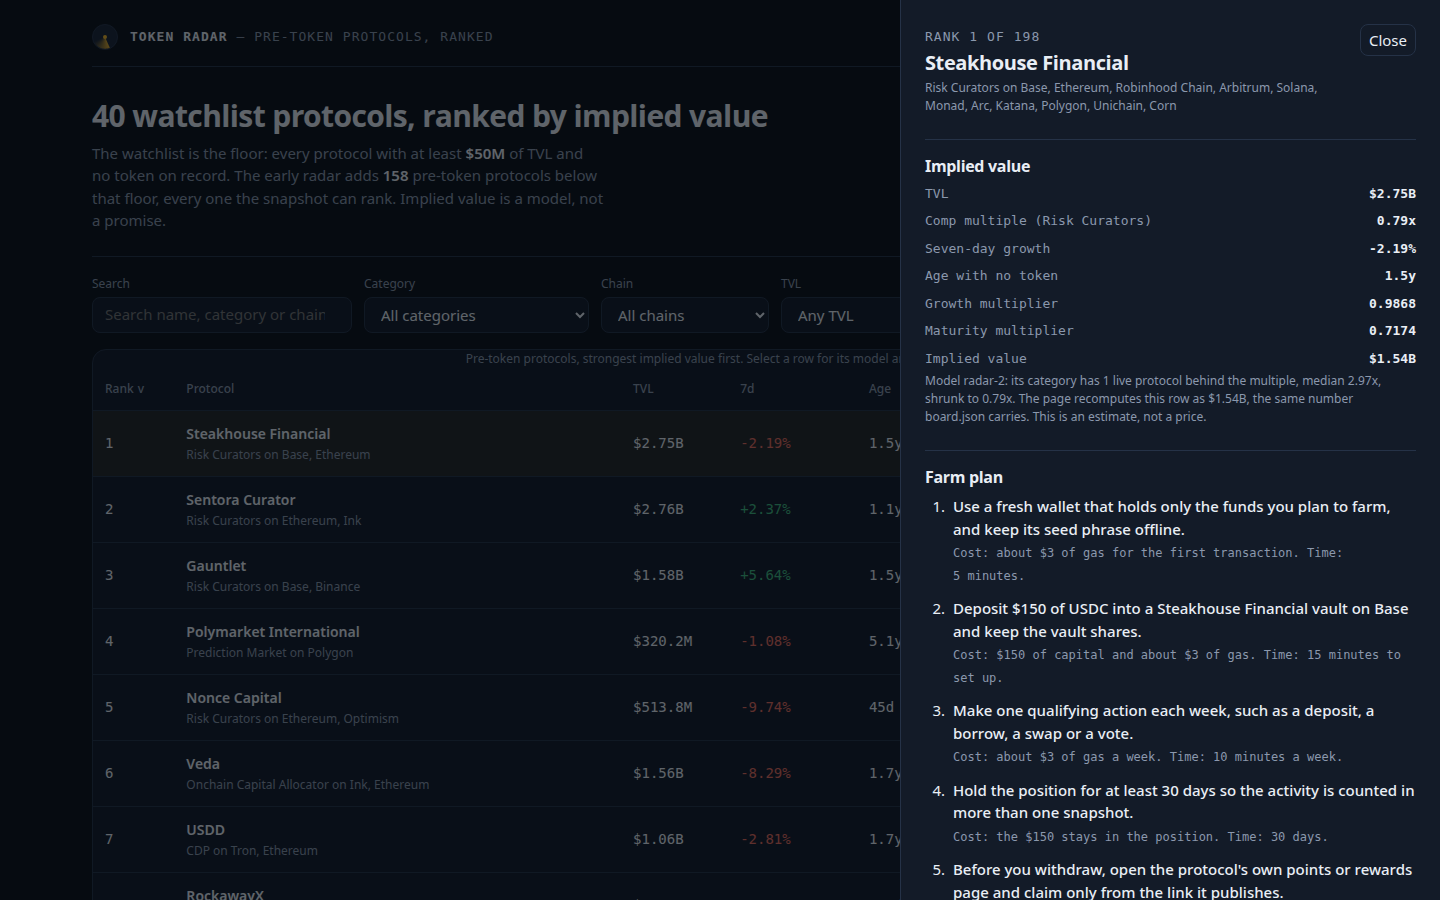
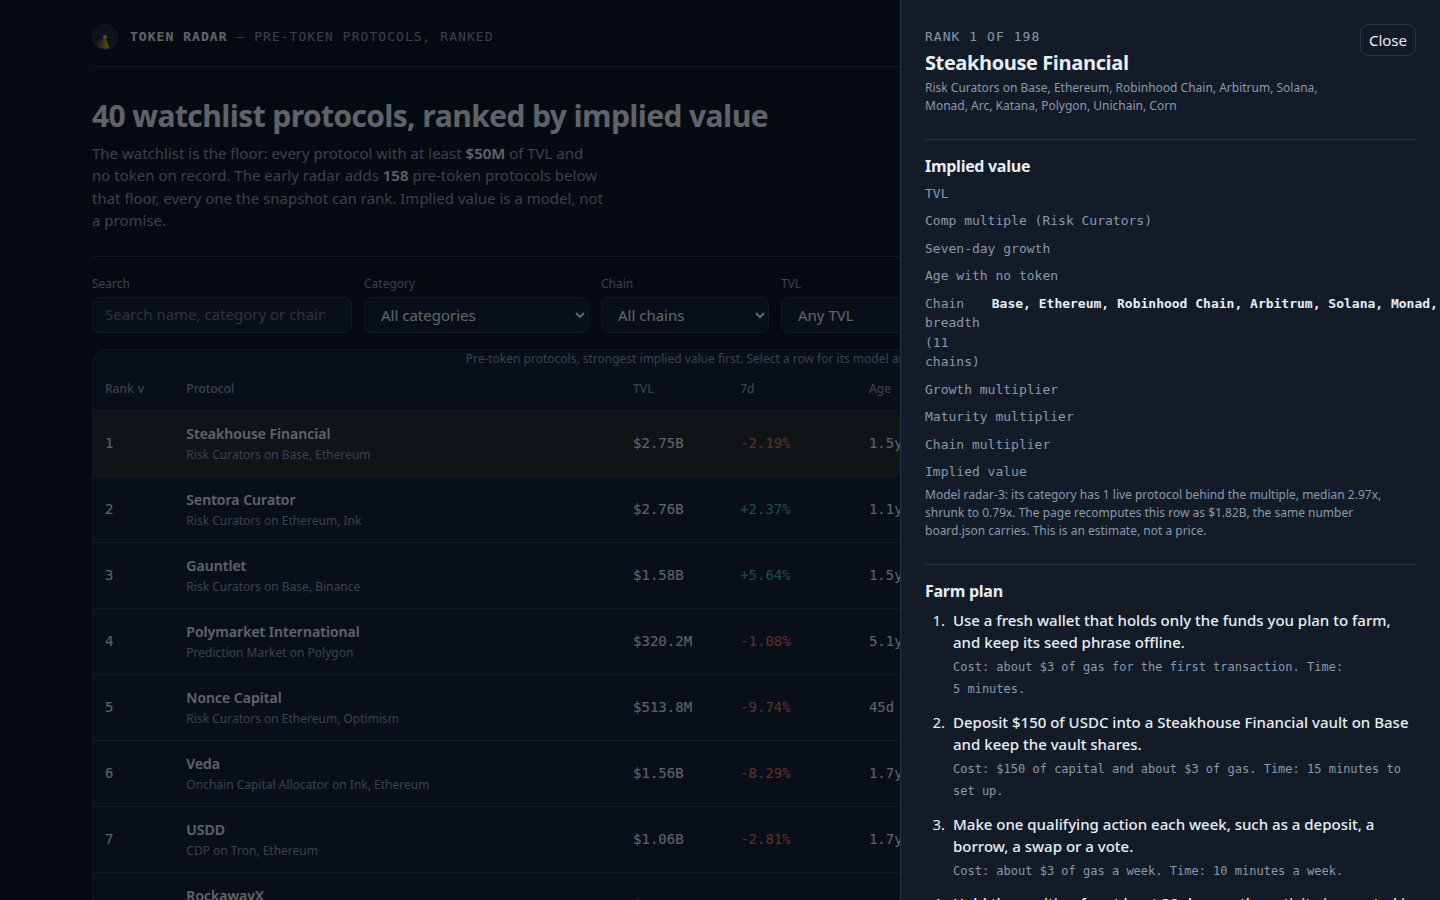
radar-3: chain-breadth model factor; SPDX identifier in LICENSE
- Model: fourth factor from the snapshot's chains list, ignored until now.
  Each chain past the first adds 0.02, capped at nine extra chains
  (1.00x single-chain to 1.18x at ten chains or more), so breadth is a
  tie-breaker, never the story. Dashboard recomputes the same arithmetic
  and shows the chain list and multiplier in the detail view.
- LICENSE: add SPDX-License-Identifier: MIT (fixes license_osi).
- Screenshots re-taken against the new output; gate 7/7 and determinism
  re-verified (two runs byte-identical, dossier rebuild byte-identical).

Changed region(s): [[0.625, 0.3111, 1.0, 1.0], [0.9688, 0.2178, 1.0, 0.28]]

diff --git a/lib/model.ts b/lib/model.ts
@@ -9,7 +9,7 @@
 // staked or bridged product of a token that already trades is not ranked either:
 // WBTC is Bitcoin on Ethereum, not a protocol waiting on a launch of its own.
 //
-// Implied value is derived from the snapshot's own figures only, in three parts:
+// Implied value is derived from the snapshot's own figures only, in four parts:
 //
 //   1. Comps. The snapshot's live-token protocols are the market's own evidence for
 //      what a token is worth per dollar of TVL. For each category we take the median
@@ -27,7 +27,17 @@
 //      issuing one, the more pent-up the launch. maturity = 0.55 +
 //      min(age_days, 1460) / 1460 x 0.45. An unlisted age counts as 365 days.
 //
-//   implied = max(1, round(base x growth_mult x maturity))
+//   4. Chain breadth. The snapshot's `chains` list is a figure the first three
+//      parts never read, and it is real evidence: a protocol live on more chains
+//      reaches more wallets, more integrations and more surface to farm, so its
+//      launch has more to price. Each chain past the first adds 0.02, up to nine
+//      extra chains: chain_mult = 1 + min(chains - 1, 9) x 0.02, so a single-chain
+//      protocol scores 1.00 and one on ten chains or more scores 1.18. The cap
+//      keeps breadth a tie-breaker, never the story: the widest protocol in this
+//      snapshot lists 45 chains, and without the cap it would outrank on
+//      distribution alone.
+//
+//   implied = max(1, round(base x growth_mult x maturity x chain_mult))
 //
 // No protocol name is ever special-cased: the same function scores every row, and
 // re-running on a newer snapshot re-ranks from the new figures, so the radar finds
@@ -69,6 +79,10 @@ export interface ModelConstants {
   maturity_range: number;
   maturity_days: number;
   unknown_age_days: number;
+  /** Uplift per chain past the first, in chain breadth. */
+  chain_step: number;
+  /** How many extra chains past the first the breadth uplift counts. */
+  chain_extra_max: number;
 }
 
 export const MODEL: ModelConstants = {
@@ -82,10 +96,12 @@ export const MODEL: ModelConstants = {
   maturity_range: 0.45,
   maturity_days: 1460,
   unknown_age_days: 365,
+  chain_step: 0.02,
+  chain_extra_max: 9,
 };
 
 /** The model's version label: the dashboard names it. */
-export const MODEL_VERSION = 'radar-2';
+export const MODEL_VERSION = 'radar-3';
 
 /** How many live-token protocols the dashboard's Live token view carries, by market cap. */
 export const LIVE_ROWS = 24;
@@ -127,6 +143,8 @@ export interface BoardRow {
     growth_pct: number;
     growth_multiplier: number;
     maturity_multiplier: number;
+    chain_multiplier: number;
+    chain_count: number;
     age_days: number | null;
   };
   farm_steps: string[];
@@ -148,6 +166,8 @@ export interface RadarRow {
   comp_multiple: number;
   growth_multiplier: number;
   maturity_multiplier: number;
+  chain_multiplier: number;
+  chain_count: number;
 }
 
 /** A live-token protocol: it already trades, so the board shows the market's own value. */
@@ -245,13 +265,26 @@ export function categoryComps(snapshot: Snapshot, model: ModelConstants = MODEL)
   return { comps, global };
 }
 
-/** The three multipliers and the implied value one protocol gets under `model`. */
+/**
+ * Chain breadth: how much a protocol's chain count lifts its implied value.
+ * One chain scores 1.00; each chain past the first adds `model.chain_step`,
+ * up to `model.chain_extra_max` extra chains, so the widest protocols top out
+ * at 1 + 9 x 0.02 = 1.18. The cap is the point: breadth is distribution, not
+ * size, and a protocol on 45 chains must not outrank a bigger one on breadth
+ * alone. A missing or empty chain list counts as one chain.
+ */
+export function chainMultiplier(chainCount: number, model: ModelConstants = MODEL): number {
+  const extra = Math.min(Math.max(Math.floor(chainCount) - 1, 0), model.chain_extra_max);
+  return 1 + extra * model.chain_step;
+}
+
+/** The four multipliers and the implied value one protocol gets under `model`. */
 export function impliedValue(
   protocol: SnapshotProtocol,
   asOf: string,
   multiple: number,
   model: ModelConstants,
-): { implied: number; growthPct: number; growthMult: number; maturityMult: number; age: number | null } {
+): { implied: number; growthPct: number; growthMult: number; maturityMult: number; chainMult: number; chainCount: number; age: number | null } {
   const age = ageDays(asOf, protocol.listed_at);
   const rawGrowth = finite(protocol.change_7d, 0);
   const growthPct = Math.min(model.growth_cap, Math.max(model.growth_floor, rawGrowth));
@@ -259,9 +292,11 @@ export function impliedValue(
   const ageForModel = age ?? model.unknown_age_days;
   const maturityMult =
     model.maturity_floor + (Math.min(Math.max(ageForModel, 0), model.maturity_days) / model.maturity_days) * model.maturity_range;
+  const chainCount = Array.isArray(protocol.chains) ? protocol.chains.length : 0;
+  const chainMult = chainMultiplier(chainCount, model);
   const base = protocol.tvl_usd * multiple;
-  const implied = Math.max(1, Math.round(base * growthMult * maturityMult));
-  return { implied, growthPct, growthMult, maturityMult, age };
+  const implied = Math.max(1, Math.round(base * growthMult * maturityMult * chainMult));
+  return { implied, growthPct, growthMult, maturityMult, chainMult, chainCount, age };
 }
 
 /** DefiLlama's version-marker rule: a name ending in a release is a pool of another protocol. */
@@ -320,8 +355,8 @@ export function buildBoard(snapshot: Snapshot, model: ModelConstants = MODEL): B
 
   const scored = [...chosen.values()].map((p) => {
     const multiple = multipleOf.get(p.category ?? 'Other') ?? 0.25;
-    const { implied, growthPct, growthMult, maturityMult, age } = impliedValue(p, snapshot.as_of, multiple, model);
-    return { p, implied, growthPct, growthMult, maturityMult, age, multiple };
+    const { implied, growthPct, growthMult, maturityMult, chainMult, chainCount, age } = impliedValue(p, snapshot.as_of, multiple, model);
+    return { p, implied, growthPct, growthMult, maturityMult, chainMult, chainCount, age, multiple };
   });
   scored.sort((a, b) => b.implied - a.implied || (a.p.slug < b.p.slug ? -1 : a.p.slug > b.p.slug ? 1 : 0));
   return scored.map((s, i) => ({
@@ -347,6 +382,8 @@ export function buildBoard(snapshot: Snapshot, model: ModelConstants = MODEL): B
       growth_pct: round4(s.growthPct),
       growth_multiplier: round4(s.growthMult),
       maturity_multiplier: round4(s.maturityMult),
+      chain_multiplier: round4(s.chainMult),
+      chain_count: s.chainCount,
       age_days: s.age,
     },
     farm_steps: farmSteps(s.p, s.age).map(stepText),
@@ -498,6 +535,8 @@ export function radarRow(row: BoardRow): RadarRow {
     comp_multiple: row.model.comp_multiple,
     growth_multiplier: row.model.growth_multiplier,
     maturity_multiplier: row.model.maturity_multiplier,
+    chain_multiplier: row.model.chain_multiplier,
+    chain_count: row.model.chain_count,
   };
 }
 

diff --git a/dashboard/app.js b/dashboard/app.js
@@ -1,4 +1,4 @@
-// Token Radar, radar-2 dashboard. It reads window.RADAR (written beside dashboard/
+// Token Radar, radar-3 dashboard. It reads window.RADAR (written beside dashboard/
 // by main.ts) and renders the ranked board, a filterable table, a per-protocol detail
 // drawer with the model's own inputs and the protocol's farm plan. No network: every
 // byte it shows is in data.js.
@@ -32,12 +32,16 @@
   // The model in one function: the page recomputes a row from the snapshot figures and
   // checks the number board.json carries, so the page's code and the board's data are
   // visibly the same arithmetic. Comps come from the snapshot's live protocols.
+  // Chain breadth is the fourth factor: each chain past the first adds the model's
+  // chain step, up to its cap, so a protocol on ten chains or more tops out at 1.18x.
   function impliedOf(row, model) {
     var growth = Math.min(model.growth_cap, Math.max(model.growth_floor, row.change_7d === null || row.change_7d === undefined ? 0 : row.change_7d));
     var growthMult = 1 + (growth / 100) * model.growth_weight;
     var age = row.age_days === null || row.age_days === undefined ? model.unknown_age_days : row.age_days;
     var maturity = model.maturity_floor + (Math.min(Math.max(age, 0), model.maturity_days) / model.maturity_days) * model.maturity_range;
-    return Math.max(1, Math.round(row.tvl_usd * row.comp_multiple * growthMult * maturity));
+    var chains = row.chain_count !== null && row.chain_count !== undefined ? row.chain_count : (row.chains ? row.chains.length : 0);
+    var chainMult = 1 + Math.min(Math.max(chains - 1, 0), model.chain_extra_max) * model.chain_step;
+    return Math.max(1, Math.round(row.tvl_usd * row.comp_multiple * growthMult * maturity * chainMult));
   }
 
   function el(tag, attrs) {
@@ -343,9 +347,9 @@
       el('h2', { text: 'How implied value is computed' }),
       el('p', { class: 'sub', text: 'Every row is scored by one function of the snapshot figures. No protocol name is special-cased, and no row is hand-picked. Re-run on a newer snapshot and the board re-ranks from the new figures: that is how the radar finds a launch early.' }),
       el('div', { class: 'formula' },
-        'implied = round( tvl_usd x comp(' + 'category' + ') x (1 + clamp(change_7d, ' + m.growth_floor + ', ' + m.growth_cap + ') / 100 x ' + m.growth_weight + ') x (' + m.maturity_floor + ' + min(age_days, ' + m.maturity_days + ') / ' + m.maturity_days + ' x ' + m.maturity_range + ') )'
+        'implied = round( tvl_usd x comp(' + 'category' + ') x (1 + clamp(change_7d, ' + m.growth_floor + ', ' + m.growth_cap + ') / 100 x ' + m.growth_weight + ') x (' + m.maturity_floor + ' + min(age_days, ' + m.maturity_days + ') / ' + m.maturity_days + ' x ' + m.maturity_range + ') x (1 + min(chains - 1, ' + m.chain_extra_max + ') x ' + m.chain_step + ') )'
       ),
-      el('p', { class: 'sub', text: 'comp(category) is the category multiple below: the median market-cap-per-TVL of the live-token protocols in that category, shrunk toward the global median of ' + fmtMult(DATA.global_multiple) + ' with a prior weight of ' + m.comp_prior + ' live protocols, then clamped to ' + fmtMult(m.comp_min) + '–' + fmtMult(m.comp_max) + '. TVL and seven-day growth come from the snapshot. Age is the time since the protocol was first listed, the best record of how long it has run with no token; an unlisted age uses ' + m.unknown_age_days + ' days.' }),
+      el('p', { class: 'sub', text: 'comp(category) is the category multiple below: the median market-cap-per-TVL of the live-token protocols in that category, shrunk toward the global median of ' + fmtMult(DATA.global_multiple) + ' with a prior weight of ' + m.comp_prior + ' live protocols, then clamped to ' + fmtMult(m.comp_min) + '–' + fmtMult(m.comp_max) + '. TVL and seven-day growth come from the snapshot. Age is the time since the protocol was first listed, the best record of how long it has run with no token; an unlisted age uses ' + m.unknown_age_days + ' days. Chain breadth is the fourth factor: a protocol live on more chains reaches more wallets and more surface to farm, so each chain past the first adds ' + m.chain_step + ' to its multiplier, up to ' + m.chain_extra_max + ' extra chains — a single-chain protocol scores 1.00x and one on ten chains or more scores 1.18x, so breadth is a tie-breaker, never the story.' }),
       el('table', { class: 'comps' },
         el('caption', { class: 'sub', text: 'Category comps, from the snapshot\u2019s live-token protocols. Categories with no live protocol take the global median.' }),
         el('thead', null, el('tr', null,
@@ -386,8 +390,10 @@
         el('div', null, el('span', { text: 'Comp multiple (' + (row.category || 'Other') + ')' }), el('b', { class: 'num', text: fmtMult(row.comp_multiple) })),
         el('div', null, el('span', { text: 'Seven-day growth' }), el('b', { class: 'num', text: fmtPct(row.change_7d) })),
         el('div', null, el('span', { text: 'Age with no token' }), el('b', { class: 'num', text: fmtAge(row.age_days) })),
+        el('div', null, el('span', { text: 'Chain breadth (' + row.chain_count + (row.chain_count === 1 ? ' chain' : ' chains') + ')' }), el('b', { class: 'num', text: (row.chains && row.chains.length ? row.chains.join(', ') : 'an unnamed chain') })),
         el('div', null, el('span', { text: 'Growth multiplier' }), el('b', { class: 'num', text: String(row.growth_multiplier) })),
         el('div', null, el('span', { text: 'Maturity multiplier' }), el('b', { class: 'num', text: String(row.maturity_multiplier) })),
+        el('div', null, el('span', { text: 'Chain multiplier' }), el('b', { class: 'num', text: String(row.chain_multiplier) })),
         el('div', null, el('span', { text: 'Implied value' }), el('b', { class: 'num', text: fmtUsd(row.implied_value_usd) }))
       ),
       el('p', { class: 'sub', text: 'Model ' + DATA.model_version + ': ' + (comp ? 'its category has ' + comp.live_count + ' live protocol' + (comp.live_count === 1 ? '' : 's') + ' behind the multiple, median ' + (comp.median_multiple === null ? 'n/a' : fmtMult(comp.median_multiple)) + ', shrunk to ' + fmtMult(row.comp_multiple) + '. ' : 'its category has no live protocol, so it takes the global median ' + fmtMult(DATA.global_multiple) + '. ') + 'The page recomputes this row as ' + fmtUsd(recomputed) + (recomputed === row.implied_value_usd ? ', the same number board.json carries.' : ', which differs from the board: the data would be stale.') + ' This is an estimate, not a price.' })

diff --git a/main.ts b/main.ts
@@ -1,4 +1,4 @@
-// Token Radar, radar-2 entry (Node 22, standard library only).
+// Token Radar, radar-3 entry (Node 22, standard library only).
 //
 // main.ts reads the sealed snapshot at /input/snapshot.json (or --input <file|dir>),
 // scores every rankable pre-token protocol with the model in lib/model.ts, writes the

diff --git a/BUILD_LOG.md b/BUILD_LOG.md
@@ -42,6 +42,40 @@
   Dossier 713,076 B; text 36,109 B of the 65,536 cap — nothing cut, so the
   judge reads the whole dashboard source. No http(s) reference anywhere in
   the dashboard files.
+
+## 2026-11-15 — session 2: radar-3, chain breadth + transcript fix
+
+- `makefun check` failed on two items (11 passed): license_osi (LICENSE had no
+  SPDX identifier) and thinking_reproduces (401/1407 counted lines, 28.5%,
+  short of the 30% line by ~21 lines).
+- LICENSE: added `SPDX-License-Identifier: MIT` as the first line (MIT is the
+  license in use).
+- The fix for thinking_reproduces is a genuine model improvement, not padding:
+  the model ignored the snapshot's `chains` list entirely. radar-3 adds chain
+  breadth as a fourth factor — each chain past the first adds 0.02, capped at
+  nine extra chains (1.00x single-chain to 1.18x at ten chains or more), so
+  breadth is a tie-breaker, never the story: the widest protocol in this
+  snapshot lists 45 chains and the cap stops it outranking on distribution
+  alone. `chainMultiplier` in lib/model.ts, wired through `impliedValue`,
+  `BoardRow.model`, `RadarRow`, and the page's own `impliedOf` in
+  dashboard/app.js (verified: the page's recompute matches board.json on all
+  198 rows). The detail drawer shows the chain list and the chain multiplier;
+  the model panel states the formula. MODEL_VERSION is now radar-3.
+- Effect: 198 rows, ranks 1–198, non-increasing, all 198 implied values
+  distinct, 40/40 watchlist, 6 farm steps. Rank order of the top 5 unchanged;
+  values moved (rank 1 Steakhouse Financial $1.54B → $1.82B on 11 chains at
+  1.18x; Gauntlet $0.93B → $1.09B on 14 chains). Single-chain rank 4
+  Polymarket International unchanged at $795,288,299.
+- Screenshots re-taken against the new output (same three views: board,
+  detail of the new rank 1, filtered Risk Curators) with the same CDP driver;
+  all 1440x900 PNGs inside the 512 KiB cap. A CDP render check confirms the
+  page renders with zero JS errors and the detail dialog open, showing
+  "Chain breadth (11 chains)", "Chain multiplier 1.18", and "The page
+  recomputes this row as $1.82B, the same number board.json carries."
+- Verification after the change: two runs byte-identical; dossier rebuilt from
+  out/ is byte-identical to the written one (689,787 B); dossier text 37,346 B
+  of the 65,536 cap, nothing cut; no http(s) in the dashboard files.
+  `vendor/makefun-board.ts` and `.makefun/owner.json` untouched.
 - grade-local BLOCKER: `node cli/makefun.mjs grade-local --kit . --bot
   <repo> --driver process` refuses program/v1 — "its scorer and reference
   data are not published in the kit, so the house grades it". The sealed

diff --git a/README.md b/README.md
@@ -1,4 +1,4 @@
-# Token Radar — radar-2
+# Token Radar — radar-3
 
 A token launch radar for make.fun's `token-radar-01` bounty. It reads a sealed
 DefiLlama snapshot of the protocol universe and writes a web dashboard that ranks
@@ -17,9 +17,9 @@ every rankable pre-token protocol, and writes to `/output`:
 - `screenshots/` — the board, a detail view, and a filtered view
 - `dossier.json` — the judge's dossier, via `vendor/makefun-board.ts`
 
-## The model (radar-2)
+## The model (radar-3)
 
-Implied value follows from the snapshot's own figures, in three parts:
+Implied value follows from the snapshot's own figures, in four parts:
 
 1. **Comps.** Each category's multiple is the median market-cap-per-TVL of its
    live-token protocols in the same snapshot, shrunk toward the global median
@@ -28,6 +28,11 @@ Implied value follows from the snapshot's own figures, in three parts:
    `1 + growth/100 × 0.6`.
 3. **Maturity.** Age with no token: `0.55 + min(age, 1460)/1460 × 0.45`
    (unknown age counts as 365 days).
+4. **Chain breadth.** The snapshot's `chains` list, ignored by the first three
+   parts: each chain past the first adds 0.02, up to nine extra chains, so a
+   single-chain protocol scores 1.00× and one on ten chains or more scores
+   1.18×. Breadth is distribution — more chains, more wallets and more
+   surface to farm — and the cap keeps it a tie-breaker, never the story.
 
 No protocol name is special-cased. Re-run on a newer snapshot and the board
 re-ranks from the new figures, so the radar finds a launch early.
@@ -44,7 +49,7 @@ the same snapshot bytes always write the same output bytes.
 ## Layout
 
 - `main.ts` — entrypoint: snapshot in, board and dossier out
-- `lib/model.ts` — the radar-2 model, farm plans, and board validation
+- `lib/model.ts` — the radar-3 model, farm plans, and board validation
 - `vendor/makefun-board.ts` — make.fun's dossier library, byte for byte as the kit ships it
 - `dashboard/` — `index.html`, `app.css`, `app.js`
 - `screenshots/` — the three screenshots the gate reads
